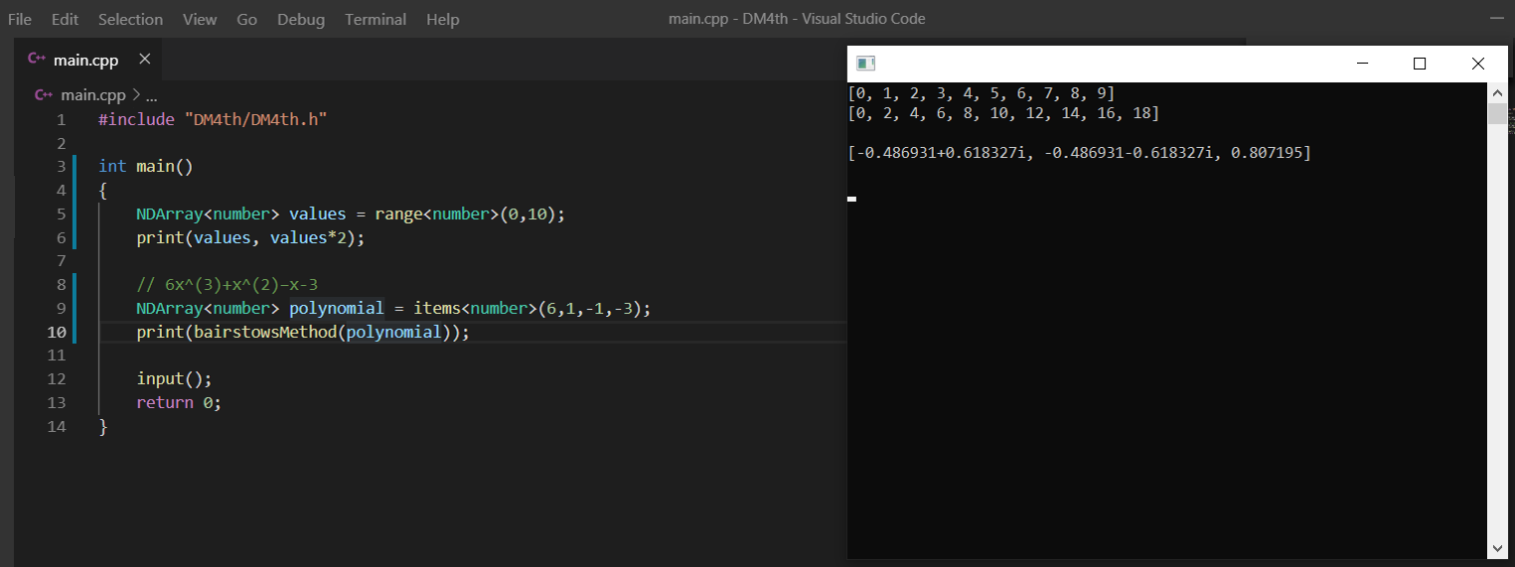
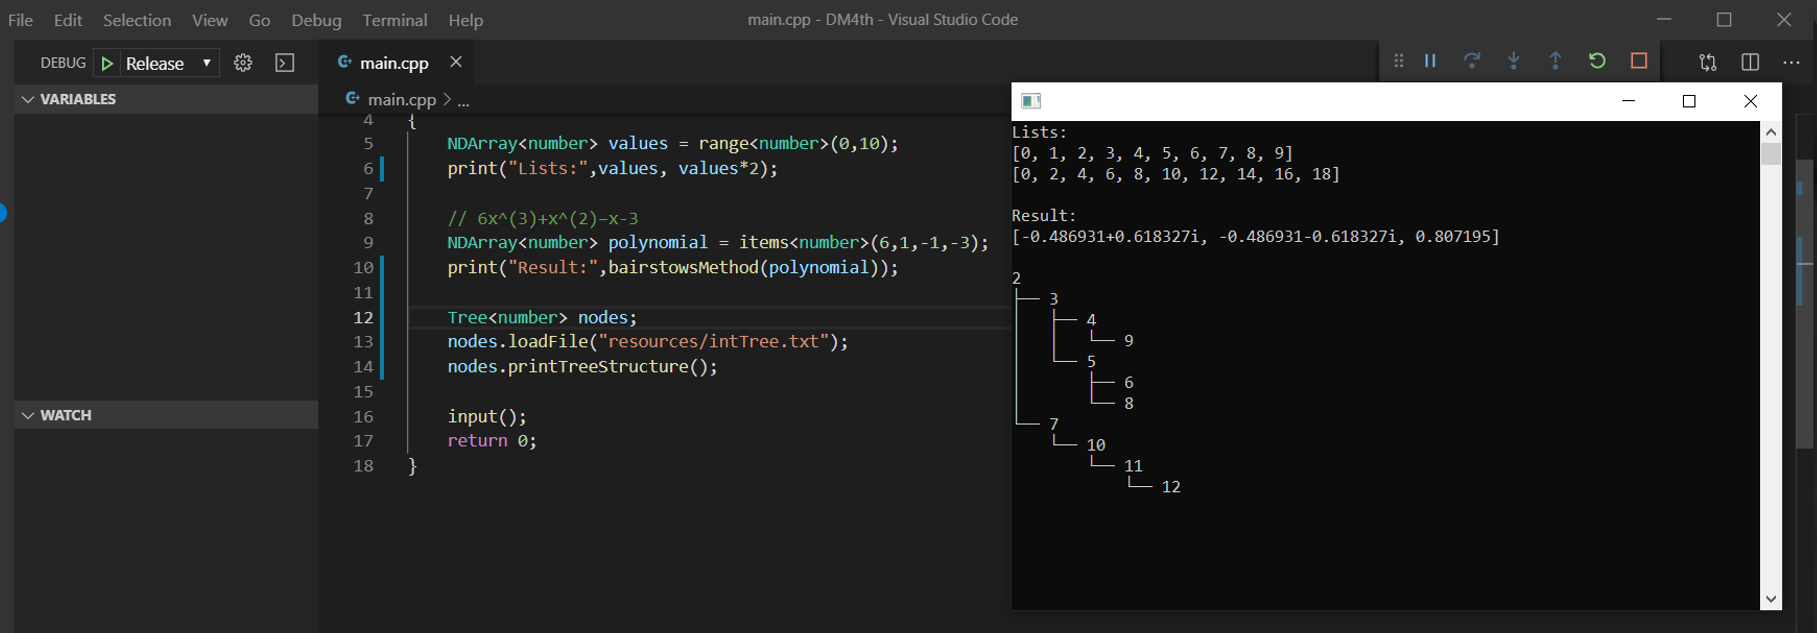
Es posible convertir un string a tipo Tree

diff --git a/DM4th/_Tree/_Tree.h b/DM4th/_Tree/_Tree.h
@@ -1,0 +1,30 @@
+#pragma once
+
+#include "_TemplateTree_impl.h"
+
+namespace DM4th
+{
+
+template<class T=float>
+class Tree: public TemplateTree<T>
+{
+    typedef TemplateTree<T> super;
+    public:
+        Tree(){}
+        Tree(const super &other){ static_cast<super&>(*this) = other; }
+        Tree(const std::string &other){ static_cast<super&>(*this) = other; };
+        Tree(const char *other){ static_cast<super&>(*this) = std::string(other); };
+};
+
+template<>
+class Tree<bool>: public TemplateTree<bool>
+{
+    typedef TemplateTree<bool> super;
+    public:
+        Tree(){}
+        Tree(const super &other){ static_cast<super&>(*this) = other; }
+        Tree(const std::string &other){ static_cast<super&>(*this) = other; };
+        Tree(const char *other){ static_cast<super&>(*this) = std::string(other); };
+};
+
+}

diff --git a/main.cpp b/main.cpp
@@ -1,13 +1,11 @@
 #include "DM4th/DM4th.h"
 
-int main()
-{
-    NDArray<number> values = range<number>(0,10);
-    print(values, values*2);
+int main(){
 
-    // 6x^(3)+x^(2)−x-3
-    NDArray<number> polynomial = items<number>(6,1,-1,-3);
-    print(bairstowsMethod(polynomial));
+    NDArray<string> hello  = items<string>("Hello", "World");
+    NDArray<number> myList = range<number>(10);
+
+    print(hello, myList);
 
     input();
     return 0;

diff --git a/DM4th/_Tree/_TemplateTree_impl.h b/DM4th/_Tree/_TemplateTree_impl.h
@@ -6,6 +6,18 @@ namespace DM4th
 {
 
 template<class T>
+TemplateTree<T>::TemplateTree() {}
+
+template<class T>
+TemplateTree<T>::TemplateTree(const std::string &str) 
+{    
+    std::stringstream ss;
+    ss << str;
+    ss >> *this;
+}
+
+
+template<class T>
 inline T &TemplateTree<T>::node() const
 {
     return super::_data->node;

diff --git a/DM4th/_Tree/_TemplateTree.h b/DM4th/_Tree/_TemplateTree.h
@@ -13,6 +13,9 @@ class TemplateTree: public _TreeDataManager<TemplateTree,T>
 {
         typedef _TreeDataManager<TemplateTree,T> super;
     public:
+        TemplateTree();  
+        TemplateTree(const std::string &other);
+
         inline T &node() const;
         inline T &item() const;
 

diff --git a/DM4th/Tree.h b/DM4th/Tree.h
@@ -1,7 +1,6 @@
 #pragma once
 
-#include "_Tree/_TemplateTree_impl.h"
-
+#include "_Tree/_Tree.h"
 namespace DM4th
 {
 
